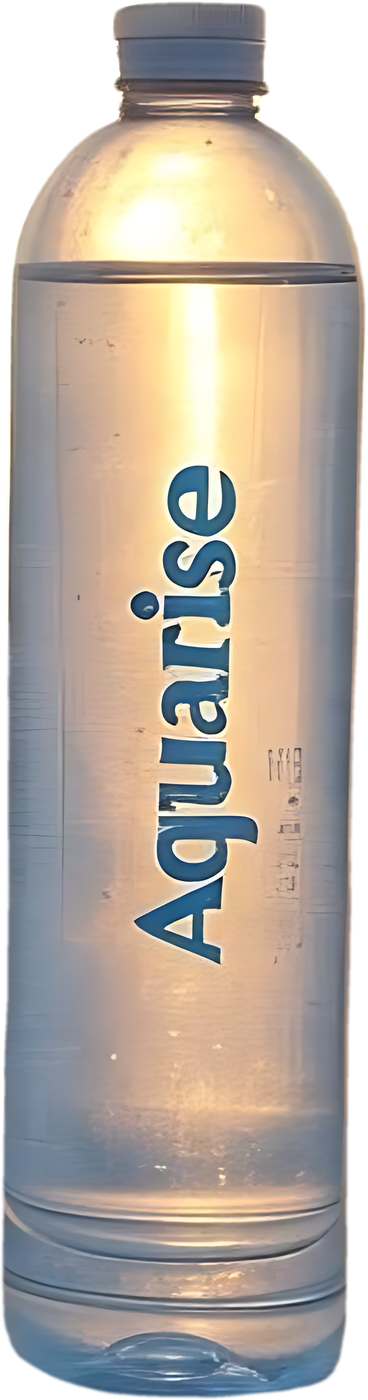
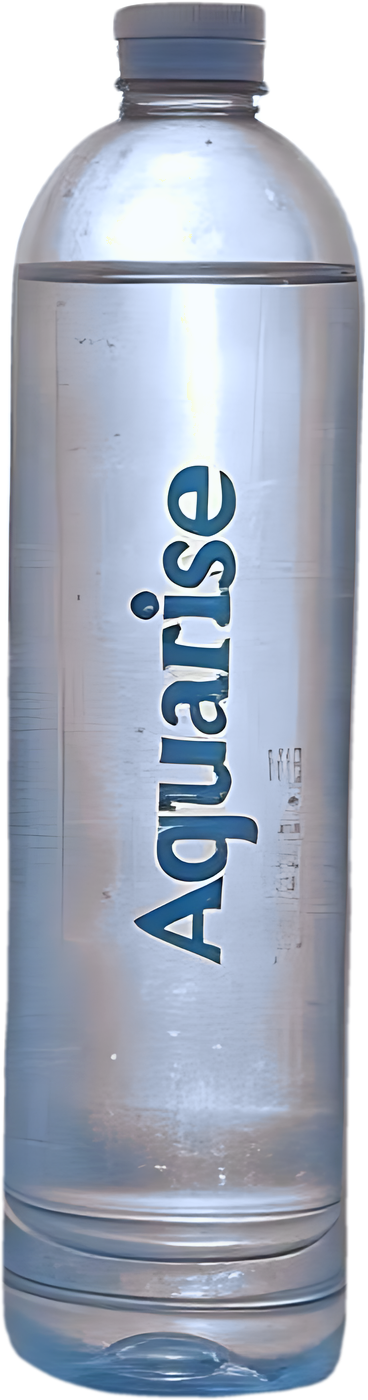
Clean, cool bottle and auto-advancing range
- Re-grade the bottle packshot: the sunset's orange inside the bottle is
  neutralised to clear, slightly cool water (blue label untouched), with
  a touch more contrast; used in the shop, bundles and cart
- The range auto-advances every 4.5s while on screen; pauses on hover,
  with the cart open or the tab hidden; clicks restart the countdown

Claude-Session: https://claude.ai/code/session_018bfiydaL7cpvWRMbGtAkpf

diff --git a/js/main.js b/js/main.js
@@ -445,6 +445,19 @@
       .fromTo('[data-slide-desc], .slide-buy', { autoAlpha: 0, y: 14 }, { autoAlpha: 1, y: 0, duration: .6, stagger: .06 }, .3);
   };
 
+  // Auto-advance the range every 4.5s while the shop is on screen. Pauses while the pointer is over it or the tab is
+  // hidden; any manual change (arrows, tabs, swipe) restarts the countdown so it never jumps right after a click.
+  (() => {
+    const shop = $('.slider'); let onScreen = false, hovering = false, timer = null;
+    const tick = () => { if (onScreen && !hovering && !document.hidden && !html.classList.contains('cart-open')) showSlide(sl.i + 1, 1); };
+    const restart = () => { clearInterval(timer); timer = setInterval(tick, 4500); };
+    new IntersectionObserver(([e]) => { onScreen = e.isIntersecting && e.intersectionRatio > .5; restart(); }, { threshold: [0, .5, 1] }).observe($('.slide-stage'));
+    shop.addEventListener('pointerenter', e => { if (e.pointerType === 'mouse') hovering = true; });
+    shop.addEventListener('pointerleave', () => { hovering = false; restart(); });
+    shop.addEventListener('click', e => { if (e.target.closest('button')) restart(); });
+    restart();
+  })();
+
   /* ── C9 · BUNDLES: cards fill with water, bottles drop in, prices count up; tilt, glare and perk chips on hover ── */
   const canHover = matchMedia('(hover: hover) and (pointer: fine)').matches;
   $$('[data-reveal-wave]').forEach(card => {

diff --git a/MOTION_SPEC.md b/MOTION_SPEC.md
@@ -104,9 +104,10 @@ Picture first, then the copy one piece at a time. Desktop (≥961px wide, ≥600
 
 ### 05 Shop
 - Arch heading: `#archPath` `d` morphs from curved (`Q 500 −10`) to flat, scrubbed `top 90%` → `top 30%`
-- Stage: the HD bottle packshot (cut from a Real-ESRGAN 4× upscale) backlit by `.stage-glow` (warm radial, like the photo's sunrise), on `.stage-floor` (glossy line + sheen) with a flipped, masked reflection (`.b-reflect`) and a contact shadow
+- Stage: the HD bottle packshot (cut from a Real-ESRGAN 4× upscale, sunset orange neutralised to clean cool water, label untouched) backlit by `.stage-glow` (warm radial, like the photo's sunrise), on `.stage-floor` (glossy line + sheen) with a flipped, masked reflection (`.b-reflect`) and a contact shadow
 - Behind the bottle, `.stage-mist` plays `mist` (the sunlit steam cropped from the waterfall clip, 0.7× speed, forward-then-reverse ~14s loop) with `mix-blend-mode: screen` and a radial mask, so only the glowing steam and rays show
 - Entrance (`top 75%`, once): glow and mist `autoAlpha 0 → 1`, `scale .8 → 1`, 1.6s `expo.out`; bottle `y 80 → 0`, fades in, 1.4s `expo.out` at .1
+- Auto-advance: next product every 4.5s while the stage is at least half on screen; paused while a mouse is over the shop, while the cart is open and while the tab is hidden; any arrow/tab click restarts the countdown. Off with reduced motion (Part C only).
 - Slide change: outgoing glides out `xPercent ∓70`, `rotate ∓5°`, fades, .55s `power2.in`; incoming glides in from the other side, 1s `expo.out` at .3; glow re-brightens `.55 → 1`; name `yPercent 105 → 0`; desc and price fade at .3
 
 ### 06 Bundles
